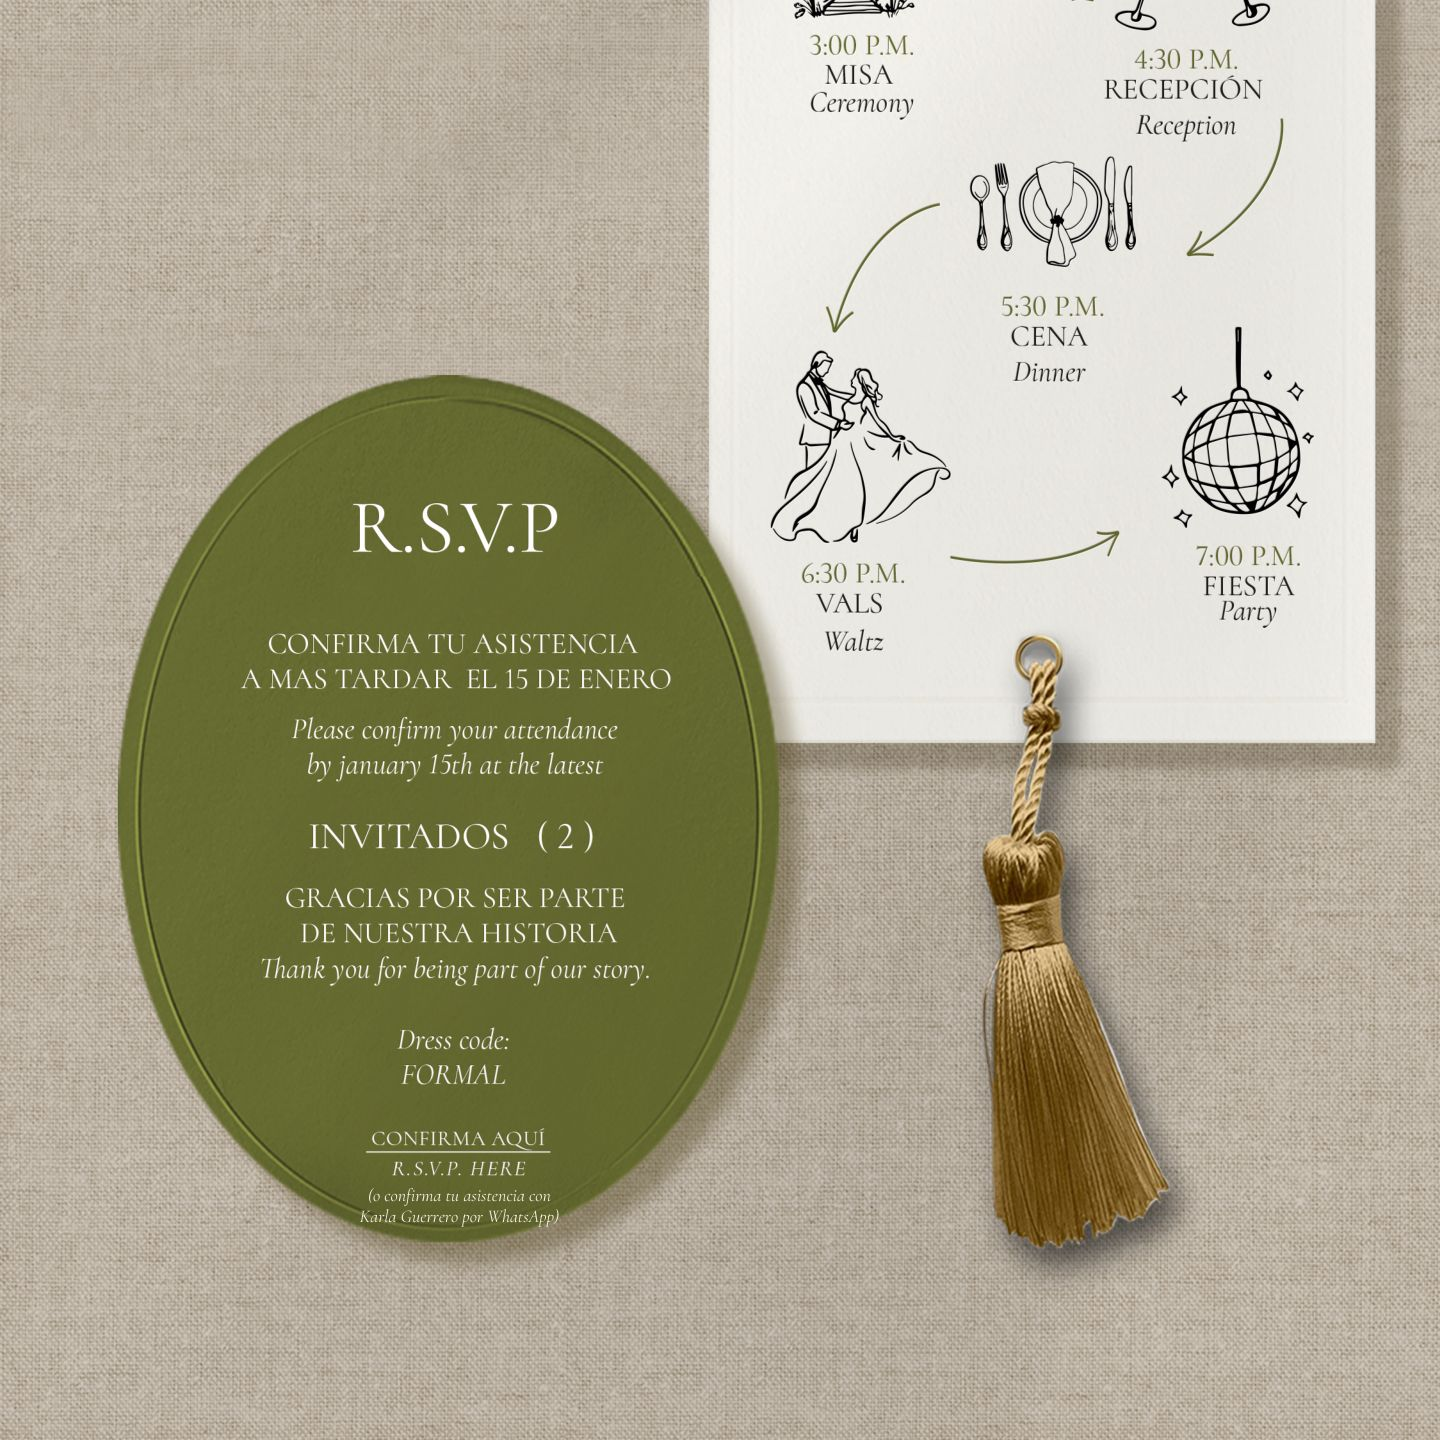
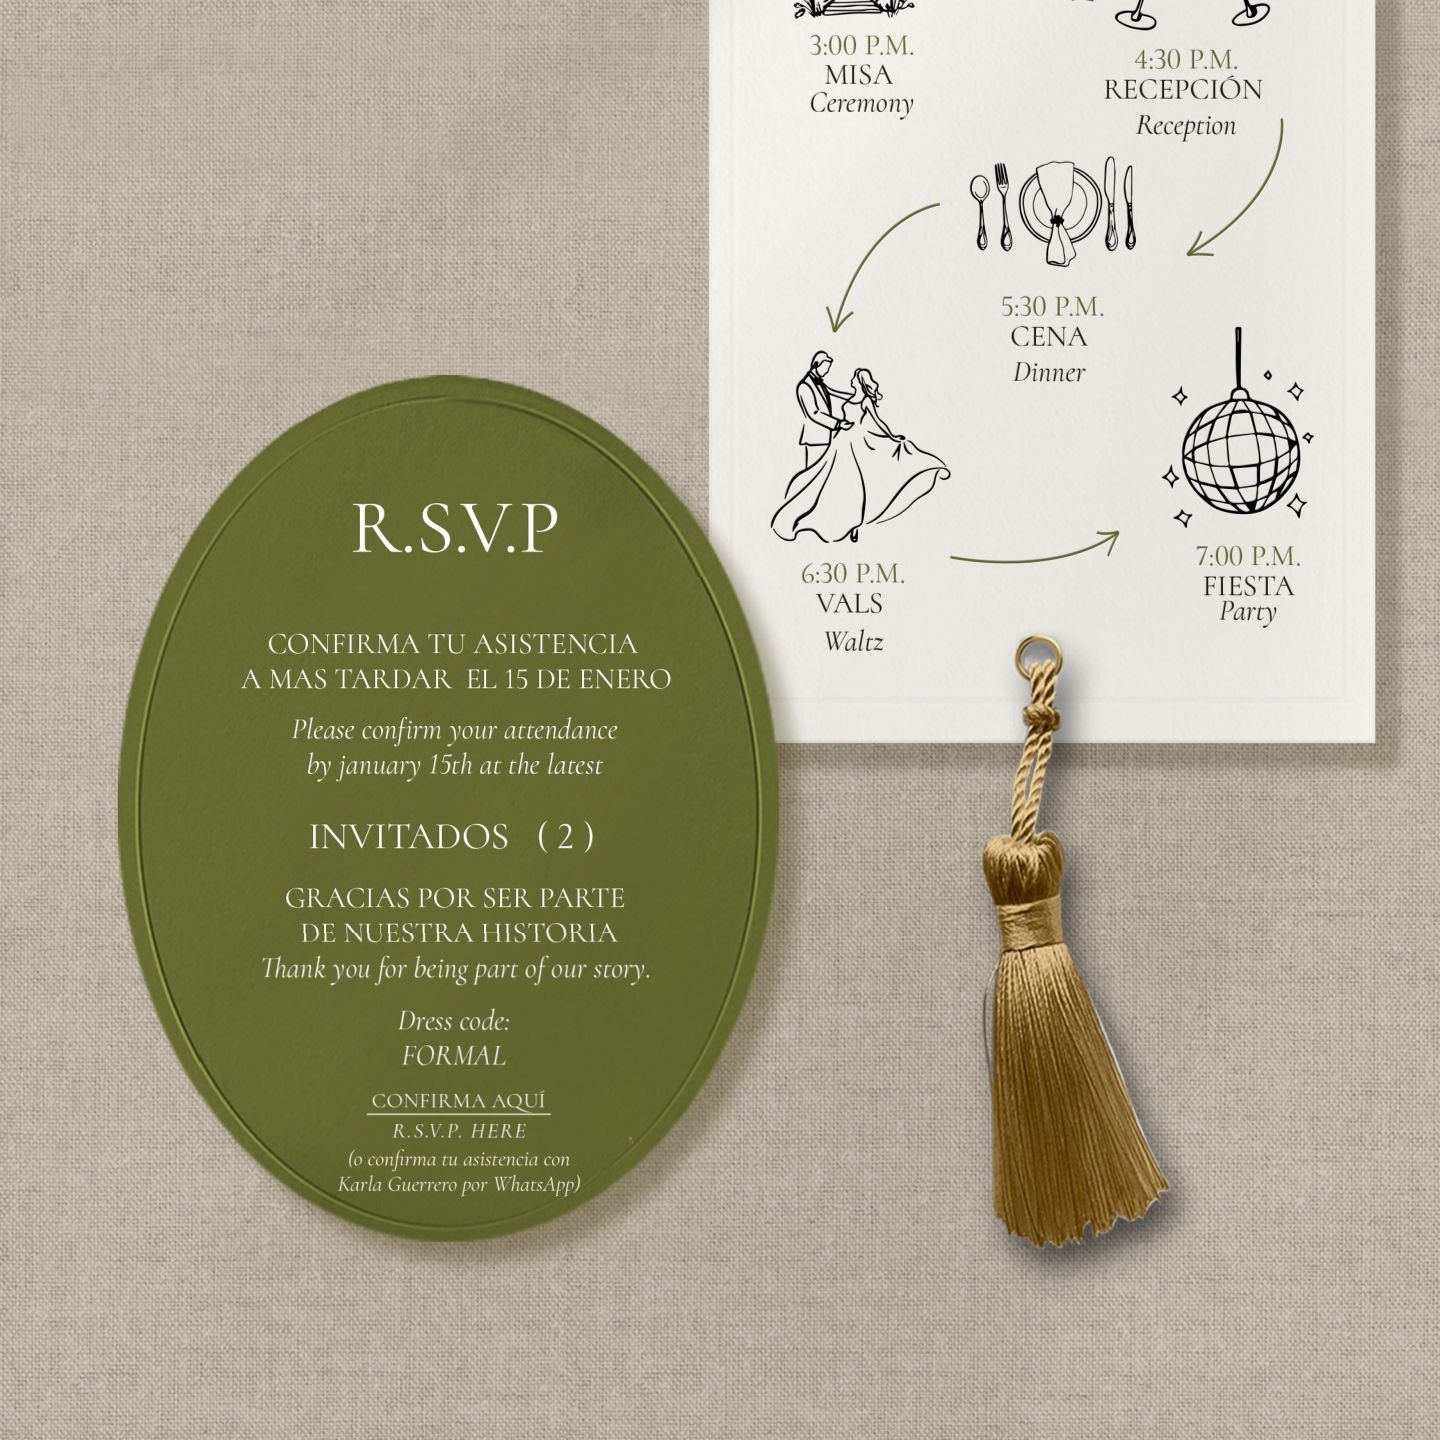
Make the WhatsApp RSVP line larger and easier to read
Claude-Session: https://claude.ai/code/session_01VUW2DL1pxHZW5YBbu8ue5b

Changed region(s): [[0.1875, 0.6562, 0.4062, 0.8438]]

diff --git a/index.html b/index.html
@@ -95,7 +95,7 @@ body.opened .reenv{opacity:1;pointer-events:auto}
 <script>
 {
 // One entry per invitation version (Invitados 1, 2, …). Link a guest with ?invitados=2
-const INV={"2": {"n": 8, "w": 1440, "h": 10297, "links": [{"x": 37.714, "y": 43.667, "w": 33.471, "h": 2.107, "uri": "https://maps.app.goo.gl/gSUrrUd9CPuR6mM3A", "label": "Ver ubicaci\u00f3n de la ceremonia \u00b7 Ceremony location"}, {"x": 11.194, "y": 79.533, "w": 28.391, "h": 2.865, "uri": "https://www.camilaandnick.com/registry", "label": "Sugerencia de regalo \u00b7 Gift suggestion"}, {"x": 13.845, "y": 70.021, "w": 37.487, "h": 4.215, "uri": "https://www.camilaandnick.com/", "label": "Ver p\u00e1gina \u00b7 Visit website"}, {"x": 16.118, "y": 89.382, "w": 29.115, "h": 6.031, "uri": "https://www.camilaandnick.com/rsvp", "label": "Confirma aqu\u00ed \u00b7 R.S.V.P. here"}, {"x": 61.064, "y": 68.073, "w": 23.777, "h": 1.975, "uri": "https://maps.app.goo.gl/jxMHLZ9EfkpKpbPw7", "label": "Ver ubicaci\u00f3n de la recepci\u00f3n \u00b7 Reception location"}]}};
+const INV={"2": {"n": 8, "w": 1440, "h": 10297, "links": [{"x": 37.714, "y": 43.667, "w": 33.471, "h": 2.107, "uri": "https://maps.app.goo.gl/gSUrrUd9CPuR6mM3A", "label": "Ver ubicaci\u00f3n de la ceremonia \u00b7 Ceremony location"}, {"x": 11.194, "y": 79.533, "w": 28.391, "h": 2.865, "uri": "https://www.camilaandnick.com/registry", "label": "Sugerencia de regalo \u00b7 Gift suggestion"}, {"x": 13.845, "y": 70.021, "w": 37.487, "h": 4.215, "uri": "https://www.camilaandnick.com/", "label": "Ver p\u00e1gina \u00b7 Visit website"}, {"x": 16.118, "y": 89.382, "w": 29.115, "h": 5.616, "uri": "https://www.camilaandnick.com/rsvp", "label": "Confirma aqu\u00ed \u00b7 R.S.V.P. here"}, {"x": 61.064, "y": 68.073, "w": 23.777, "h": 1.975, "uri": "https://maps.app.goo.gl/jxMHLZ9EfkpKpbPw7", "label": "Ver ubicaci\u00f3n de la recepci\u00f3n \u00b7 Reception location"}]}};
 const want=new URLSearchParams(location.search).get('invitados');
 const key=INV[want]?want:Object.keys(INV)[0], v=INV[key];
 const pdf=document.getElementById('pdf');
